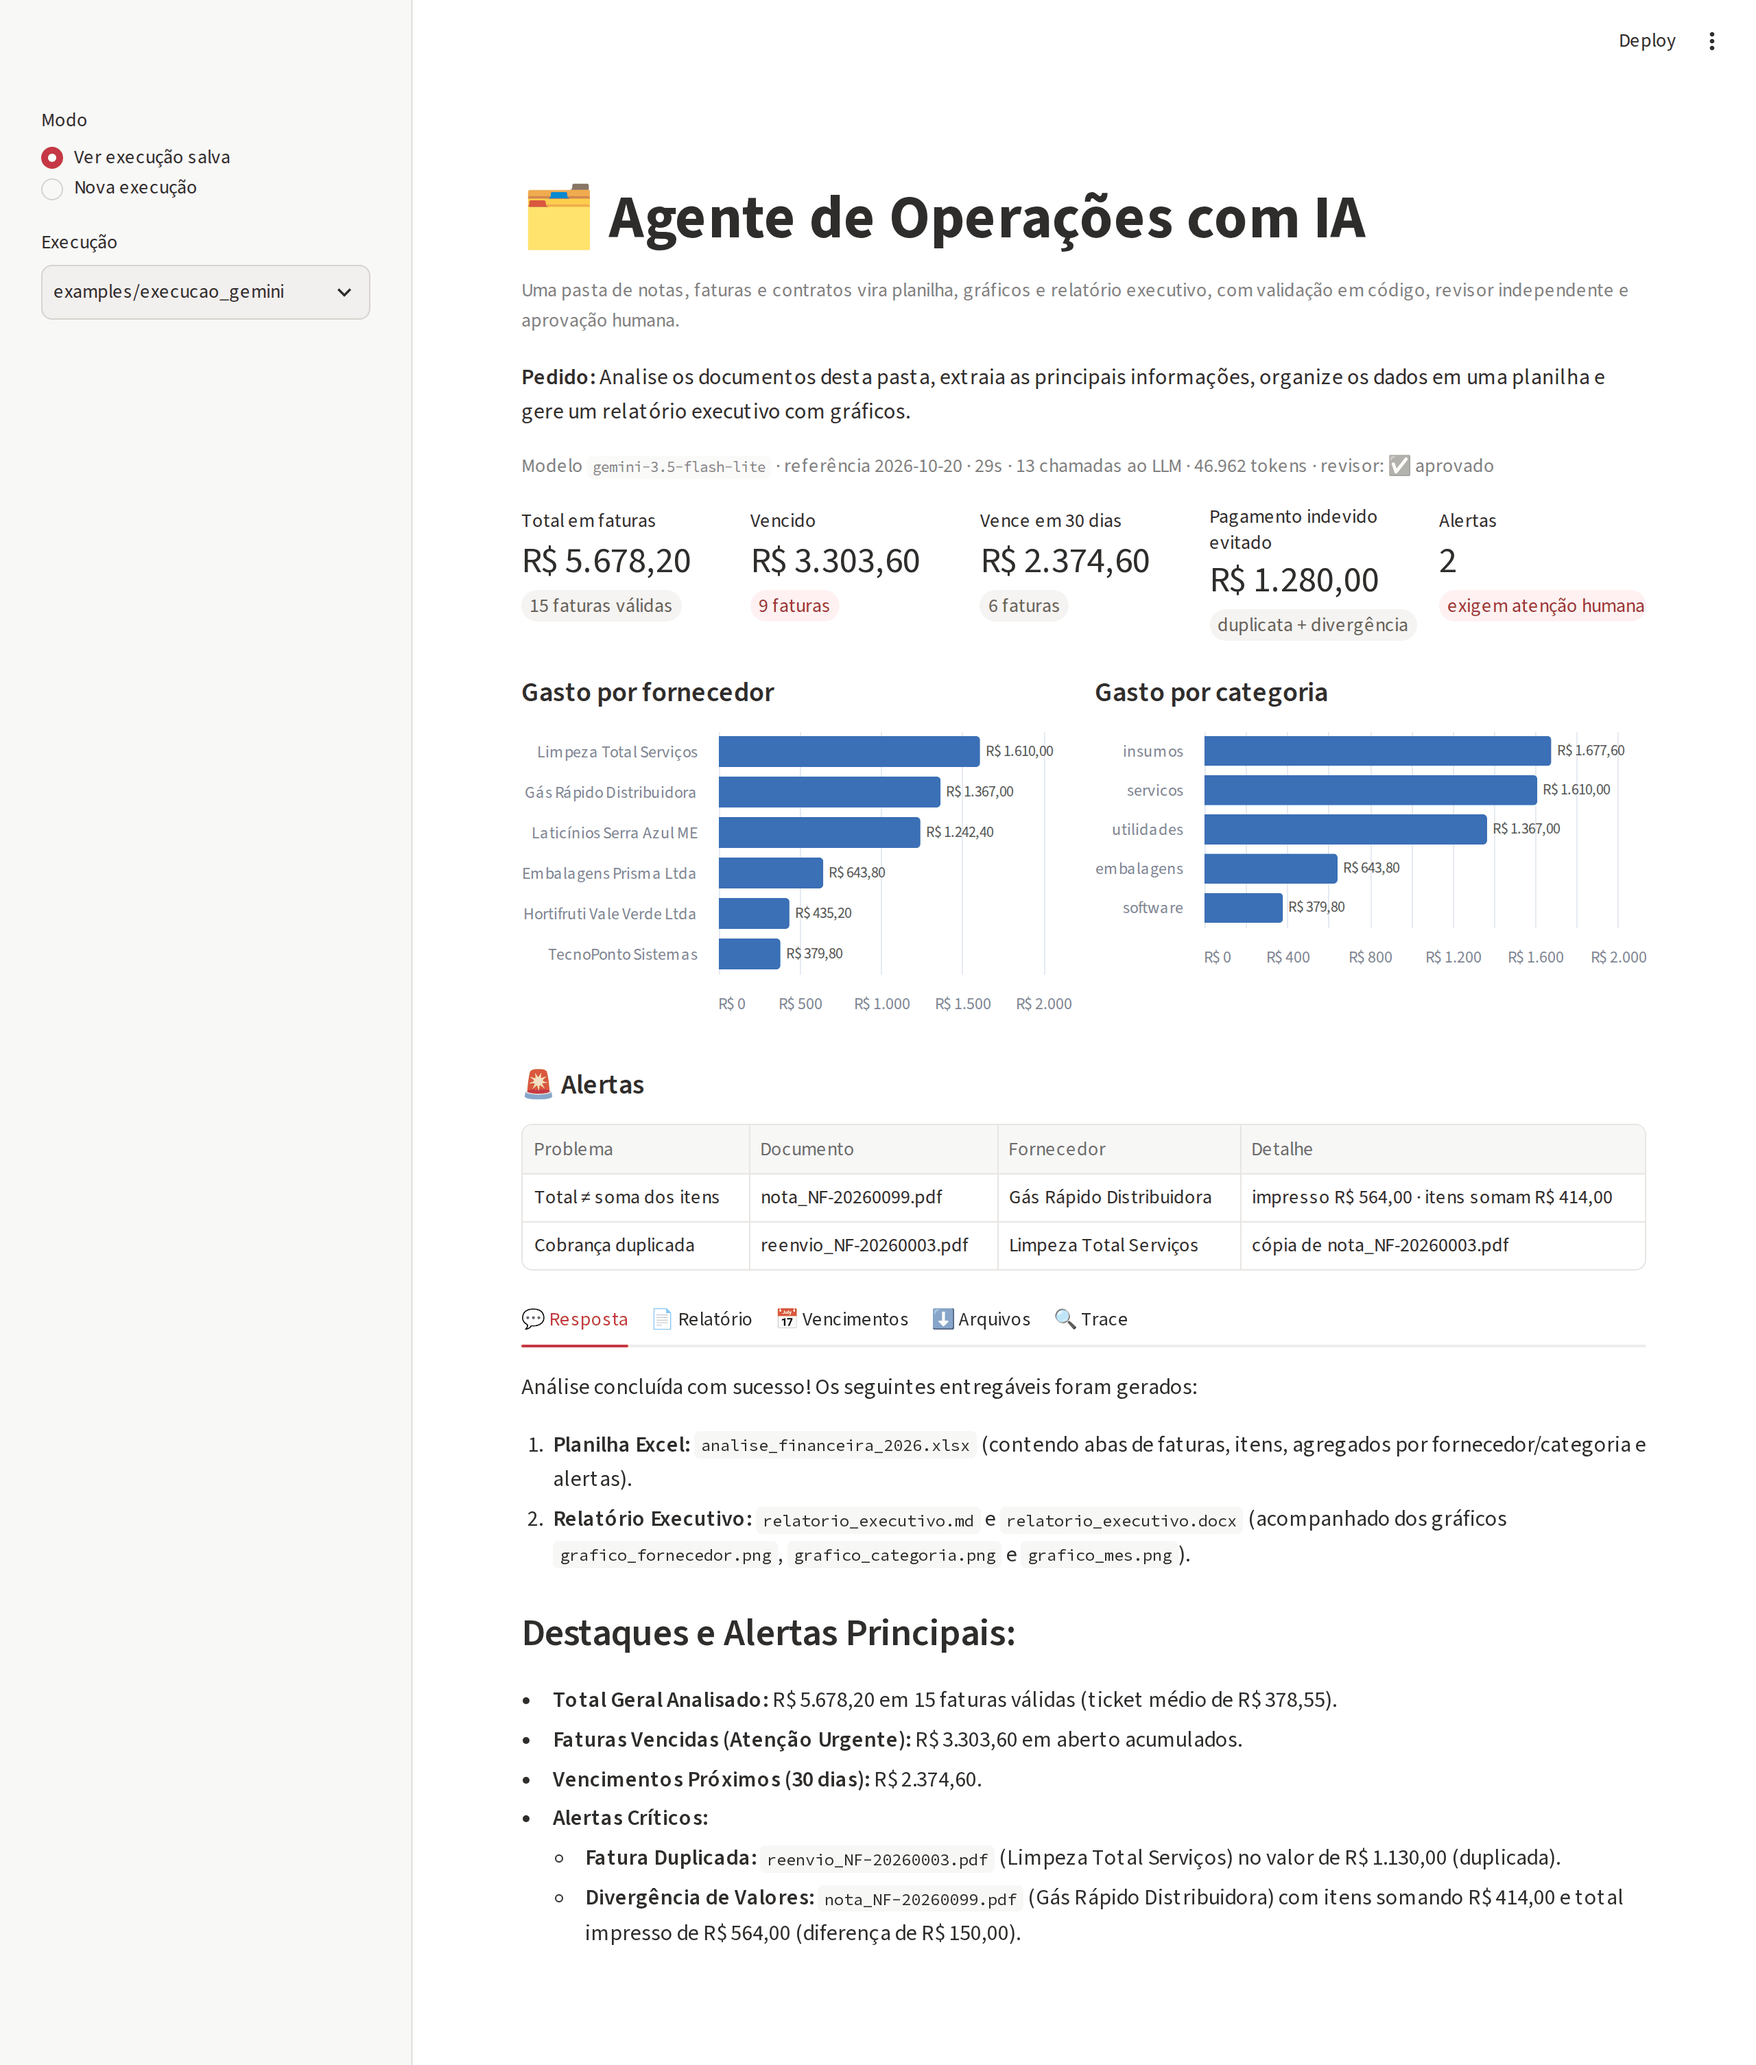
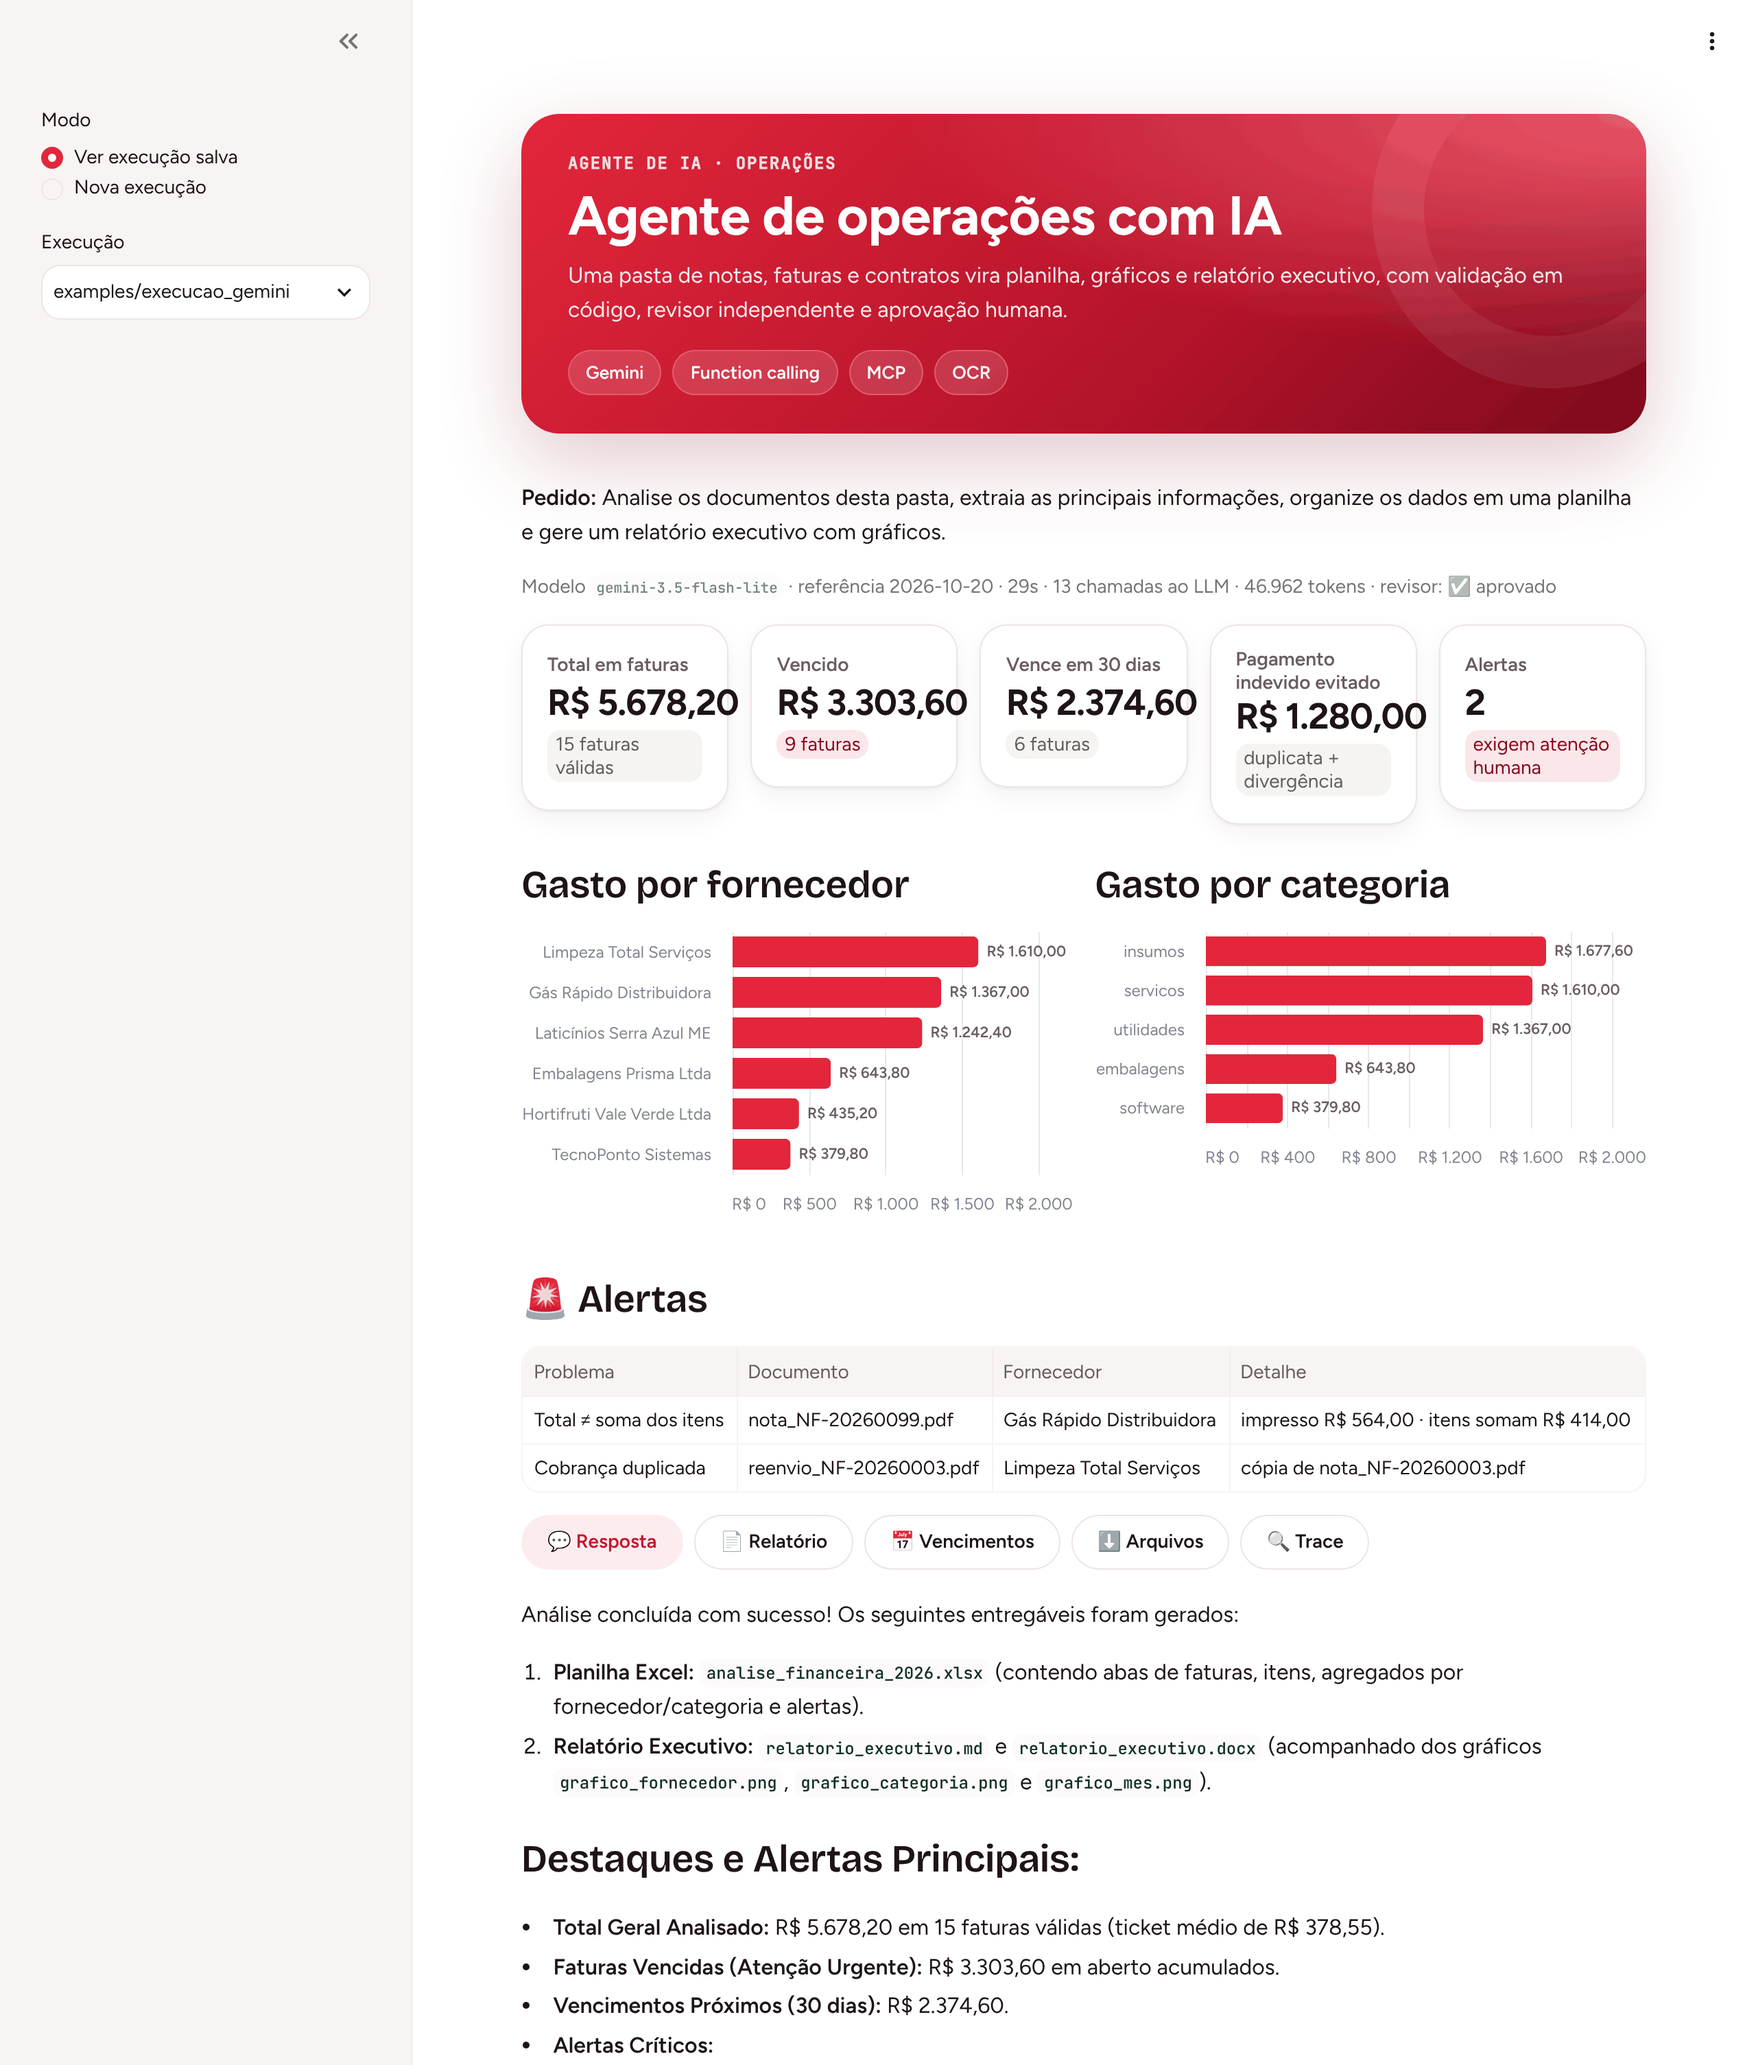
Dashboard com a identidade visual do portfólio
- .streamlit/config.toml: tema claro e escuro (vermelho #E3263B, Figtree e Bricolage Grotesque) e paletas de gráfico validadas para daltonismo
- app/tema.py: cabeçalho, cards de KPI, abas em pílula, selos de status com ícone e cores dos gráficos pela paleta
- capturas do README refeitas; streamlit>=1.51 (seções [theme.light] e [theme.dark])

Claude-Session: https://claude.ai/code/session_01WR8CaPDQRav6xXD6FyLt9e

Changed region(s): [[0.2812, 0.0312, 0.9375, 0.9993], [0.0312, 0.0625, 0.1562, 0.1561], [0.5312, 0.6246, 0.5625, 0.6558]]

diff --git a/app/tema.py b/app/tema.py
@@ -1,0 +1,142 @@
+"""Identidade visual compartilhada pelos dashboards: a mesma do portfólio (henriquecm02.github.io).
+
+Cores, fontes e raios ficam em `.streamlit/config.toml` (modo claro e escuro). Este módulo só acrescenta o que o tema
+do Streamlit não cobre: o cabeçalho, os cards de KPI, as abas em pílula e cores para traços com cor explícita.
+Copiado de forma idêntica em cada repositório, como o agentcore.py.
+"""
+from __future__ import annotations
+
+import html
+
+import streamlit as st
+
+# Mesma ordem das paletas do config.toml (validadas para daltonismo). Cor segue a entidade, nunca a posição.
+PALETA = {"claro": ["#E3263B", "#2a78d6", "#eda100", "#1baf7a", "#6250d6"],
+          "escuro": ["#E8455A", "#3987e5", "#c98500", "#199e70", "#9085e9"]}
+NEUTRO = {"claro": "#9A8A8D", "escuro": "#8C7E80"}  # série de referência: histórico, linha de base
+# Escala sequencial (magnitude): um só tom, do claro ao escuro (no modo escuro, do escuro ao claro).
+SEQUENCIAL = {"claro": ["#FDECEE", "#F6B3BC", "#EC6A7B", "#E3263B", "#B3132A", "#7A0A1B"],
+              "escuro": ["#3A1218", "#7A0A1B", "#B3132A", "#E3263B", "#EC6A7B", "#F6B3BC"]}
+STATUS = {"ok": ("#157347", "✅"), "atencao": ("#8A5200", "⚠"), "critico": ("#C8102E", "⛔")}
+
+
+def modo() -> str:
+    try:
+        return "escuro" if st.context.theme.type == "dark" else "claro"
+    except Exception:  # noqa: BLE001 - fora de uma sessão (testes, scripts) não há tema
+        return "claro"
+
+
+def cor(i: int) -> str:
+    """Cor categórica do slot i (0 = vermelho da marca)."""
+    return PALETA[modo()][i]
+
+
+def cores(n: int) -> list[str]:
+    """As n primeiras cores categóricas, na ordem fixa. Mais de 5 séries: agrupar em "Outros" ou separar."""
+    if n > len(PALETA["claro"]):
+        raise ValueError("Mais de 5 séries: agrupe em 'Outros' ou use pequenos múltiplos.")
+    return PALETA[modo()][:n]
+
+
+def sequencial() -> list[str]:
+    return SEQUENCIAL[modo()]
+
+
+def neutro() -> str:
+    return NEUTRO[modo()]
+
+
+def texto_secundario() -> str:
+    """Cor de rótulos de valor dentro de gráficos: texto, nunca a cor da série."""
+    return "#B9ACAE" if modo() == "escuro" else "#6B5C5F"
+
+
+def rgba(hex_: str, alpha: float) -> str:
+    h = hex_.lstrip("#")
+    return f"rgba({int(h[0:2], 16)},{int(h[2:4], 16)},{int(h[4:6], 16)},{alpha})"
+
+
+def selo(nivel: str, texto: str) -> str:
+    """Selo de status em HTML: sempre ícone + texto, nunca só a cor."""
+    c, icone = STATUS[nivel]
+    return (f'<span class="hc-selo" style="--c:{c}">{icone} {html.escape(texto)}</span>')
+
+
+_CSS = """
+<style>
+.block-container, [data-testid="stMainBlockContainer"] { padding-top: 4.2rem; max-width: 1280px; }
+[data-testid="stHeader"] { background: transparent; }
+h1, h2, h3 { letter-spacing: -0.01em; }
+.hc-hero { position: relative; overflow: hidden; border-radius: 28px; padding: 30px 34px 28px;
+  margin: 0 0 18px;
+  color: #fff; background: radial-gradient(120% 140% at 100% 0%, #F0566A 0%, rgba(240,86,106,0) 55%),
+  linear-gradient(135deg, #E3263B 0%, #B3132A 62%, #7A0A1B 100%);
+  box-shadow: 0 20px 60px rgba(122,10,27,.22); }
+.hc-hero::after { content: ""; position: absolute; right: -60px; top: -60px; width: 260px; height: 260px;
+  border-radius: 50%;
+  border: 38px solid rgba(255,255,255,.07); }
+.hc-hero .k { font: 700 12px/1 var(--hc-mono, "JetBrains Mono", monospace); letter-spacing: .08em;
+  text-transform: uppercase;
+  opacity: .85; margin-bottom: 10px; }
+.hc-hero h1 { color: #fff !important; font-size: clamp(1.7rem, 3.2vw, 2.5rem); line-height: 1.1;
+  margin: 0 0 10px; padding: 0; }
+.hc-hero p { color: rgba(255,255,255,.9); max-width: 780px; margin: 0; font-size: 1rem; line-height: 1.55; }
+.hc-hero .chips { display: flex; flex-wrap: wrap; gap: 8px; margin-top: 16px; }
+.hc-hero .chips span { background: rgba(255,255,255,.14); border: 1px solid rgba(255,255,255,.22);
+  border-radius: 999px;
+  padding: 5px 12px; font-size: .82rem; font-weight: 600; }
+[data-testid="stMetric"] { background: var(--hc-surface); border: 1px solid var(--hc-line);
+  border-radius: 20px;
+  padding: 16px 18px; min-height: 118px;
+  box-shadow: 0 1px 2px rgba(60,10,20,.05), 0 6px 18px rgba(60,10,20,.06); }
+[data-testid="stMetricLabel"] p { font-weight: 600; color: var(--hc-muted); }
+[data-testid="stMetricValue"] { font-weight: 700; letter-spacing: -0.02em; }
+[data-testid="stMetricDelta"] { max-width: 100%; border-radius: 10px !important; height: auto !important; }
+[data-testid="stMetricDelta"] p { white-space: normal !important; overflow: visible !important; }
+[role="tablist"] { gap: 8px; flex-wrap: wrap; border: 0 !important; box-shadow: none !important;
+  padding-bottom: 4px; }
+[role="tablist"]::after, [role="tablist"]::before { display: none !important; }
+[data-baseweb="tab-highlight"], [data-baseweb="tab-border"], .react-aria-SelectionIndicator { display: none
+  !important; }
+[role="tab"] { border-radius: 999px !important; padding: 8px 18px !important;
+  border: 1px solid var(--hc-line) !important;
+  background: var(--hc-surface) !important; height: auto !important;
+  transition: background .15s, border-color .15s; }
+[role="tab"]:hover { border-color: var(--hc-red) !important; }
+[role="tab"] p { font-weight: 600; margin: 0; }
+[role="tab"][aria-selected="true"] { background: var(--hc-soft) !important;
+  border-color: transparent !important; }
+[role="tab"][aria-selected="true"] p { color: var(--hc-red); }
+[data-testid="stVerticalBlockBorderWrapper"]:has(> div > [data-testid="stVerticalBlock"]) { border-radius:
+  20px; }
+[data-testid="stAlert"] { border-radius: 16px; }
+.hc-selo { display: inline-flex; align-items: center; gap: 6px; padding: 3px 10px; border-radius: 999px;
+  font-weight: 600;
+  font-size: .85rem; color: var(--c); background: color-mix(in srgb, var(--c) 12%, transparent); }
+.hc-nota { color: var(--hc-muted); font-size: .9rem; }
+</style>
+"""
+_TOKENS = {
+    "claro": "--hc-surface:#FFFFFF;--hc-line:#EEE4E5;--hc-muted:#6B5C5F;--hc-soft:#FDECEE;--hc-red:#C8102E;",
+    "escuro": "--hc-surface:#1F191A;--hc-line:#3A2F31;--hc-muted:#B9ACAE;--hc-soft:#3A1218;--hc-red:#F08E9B;",
+}
+
+
+def aplicar_tema(titulo: str, subtitulo: str, kicker: str = "", chips: list[str] | None = None) -> None:
+    """Injeta o CSS do portfólio e desenha o cabeçalho. Chamar logo depois de st.set_page_config."""
+    st.html(f"<style>:root{{{_TOKENS[modo()]}}}</style>" + _CSS)
+    chips_html = "".join(f"<span>{html.escape(c)}</span>" for c in chips or [])
+    st.html(f'<div class="hc-hero">{f"<div class=k>{html.escape(kicker)}</div>" if kicker else ""}'
+            f"<h1>{html.escape(titulo)}</h1><p>{html.escape(subtitulo)}</p>"
+            f'{f"<div class=chips>{chips_html}</div>" if chips_html else ""}</div>')
+
+
+def estilo_plotly(fig, altura: int | None = None, **layout):
+    """Acabamento comum dos gráficos Plotly: legenda no topo, hover unificado, margens enxutas."""
+    fig.update_layout(margin={"l": 8, "r": 8, "t": 36, "b": 8},
+                      legend={"orientation": "h", "yanchor": "bottom", "y": 1.02, "x": 0, "title_text": ""},
+                      hoverlabel={"font_family": "Figtree"}, **({"height": altura} if altura else {}), **layout)
+    fig.update_xaxes(showgrid=False)
+    fig.update_yaxes(zeroline=False)
+    return fig

diff --git a/app/streamlit_app.py b/app/streamlit_app.py
@@ -12,6 +12,7 @@ from pathlib import Path
 import altair as alt
 import pandas as pd
 import streamlit as st
+import tema
 
 from opsagent.agent import Agent
 from opsagent.cli import DEFAULT_REQUEST
@@ -71,19 +72,19 @@ def render(data: dict, folder: Path) -> None:
         for col, title, series in [(c1, "Gasto por fornecedor", a["por_fornecedor"]),
                                    (c2, "Gasto por categoria", a["por_categoria"])]:
             with col:
-                st.markdown(f"##### {title}")
+                st.subheader(title)
                 df = pd.DataFrame({"nome": list(series), "valor": list(series.values())})
                 df["rotulo"] = df["valor"].map(brl)
-                bars = alt.Chart(df).mark_bar(color="#3b6fb6", cornerRadiusEnd=3).encode(
+                bars = alt.Chart(df).mark_bar(color=tema.cor(0), cornerRadiusEnd=4).encode(
                     x=alt.X("valor:Q", title=None, scale=alt.Scale(domain=[0, df["valor"].max() * 1.25]),
                             axis=alt.Axis(format=",.0f", labelExpr="'R$ ' + replace(datum.label, ',', '.')")),
                     y=alt.Y("nome:N", sort="-x", title=None, axis=alt.Axis(labelLimit=260)),
                     tooltip=[alt.Tooltip("nome:N", title=""), alt.Tooltip("rotulo:N", title="Total")])
-                text = bars.mark_text(align="left", dx=4, color="#555").encode(text="rotulo:N")
+                text = bars.mark_text(align="left", dx=6, color=tema.texto_secundario(), fontWeight=600).encode(text="rotulo:N")
                 st.altair_chart((bars + text).properties(height=34 * len(df) + 20), use_container_width=True)
 
         if alerts:
-            st.markdown("##### 🚨 Alertas")
+            st.subheader("🚨 Alertas")
             st.dataframe(pd.DataFrame([{
                 "Problema": PROBLEMS.get(x["problema"], x["problema"]), "Documento": x["arquivo"],
                 "Fornecedor": x.get("fornecedor"),
@@ -115,9 +116,12 @@ def render(data: dict, folder: Path) -> None:
                                    for e in steps]), hide_index=True, use_container_width=True)
 
 
-st.title("🗂 Agente de Operações com IA")
-st.caption("Uma pasta de notas, faturas e contratos vira planilha, gráficos e relatório executivo, "
-           "com validação em código, revisor independente e aprovação humana.")
+tema.aplicar_tema(
+    "Agente de operações com IA",
+    "Uma pasta de notas, faturas e contratos vira planilha, gráficos e relatório executivo, com validação em código, "
+    "revisor independente e aprovação humana.",
+    kicker="Agente de IA · operações",
+    chips=["Gemini", "Function calling", "MCP", "OCR"])
 
 settings = Settings.from_env()
 runs = saved_runs()
